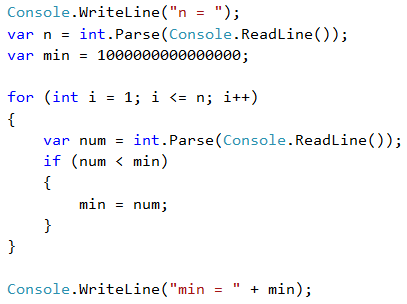
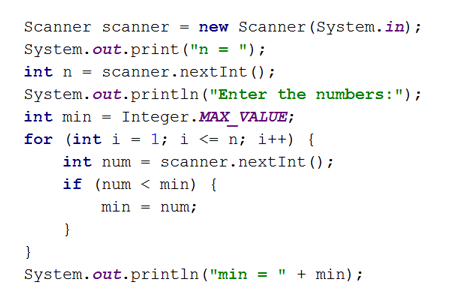
Update chapter 5

diff --git a/chapter-05-loops.md b/chapter-05-loops.md
@@ -6,8 +6,8 @@
 
 <div class="video-player">
   Гледайте видео-урок по тази глава тук: <a target="_blank"
-  href="https://www.youtube.com/watch?v=5oIIE7_0EoQ">
-  https://www.youtube.com/watch?v=5oIIE7_0EoQ</a>.
+  href="https://www.youtube.com/watch?v=MMLI-dGB3Ms">
+  https://www.youtube.com/watch?v=MMLI-dGB3Ms</a>.
 </div>
 <script src="/assets/js/video.js"></script>
 
@@ -19,11 +19,11 @@
 
 Цикълът започва с **оператора `for`** и преминава през всички стойности за дадена променлива в даден интервал, например всички числа от 1 до 10 включително, и за всяка стойност изпълнява поредица от команди.
 
-В декларацията на цикъла може да се зададе **начална стойност** и **крайна стойност**. **Тялото на цикъла** обикновено се огражда с къдрави скоби **`{ }`** и представлява блок с една или няколко команди. На фигурата по-долу е показана структурата на един **`for` цикъл**:
+В декларацията на цикъла се задава **начална стойност** и **крайна стойност**. **Тялото на цикъла** се огражда с къдрави скоби **`{ }`** и представлява блок с една или няколко команди. На фигурата по-долу е показана структурата на един **`for` цикъл**:
 
 ![](assets/chapter-5-images/00.For-loop-02.png)
 
-В повечето случаи един **`for` цикъл** се завърта от **`1`** до **`n`** пъти (например от 1 до 10). Целта на цикъла е да се премине последователно през числата 1, 2, 3, ..., n и за всяко от тях да се изпълни някакво действие. В примера по-горе променливата **`i`** приема стойности от 1 до 10 и в тялото на цикъла сe отпечатва текущата стойност. Цикълът се повтаря 10 пъти и всяко от тези повторения се нарича "**итерация**".
+В повечето случаи един **`for` цикъл** се завърта от **`1`** до **`n`** пъти (например от 1 до 10). Целта на цикъла е да се премине последователно през числата 1, 2, 3, ..., n и за всяко от тях да се изпълни някакво действие. В примера по-горе променливата **`i`** приема стойности от 1 до 10 и в тялото на цикъла се отпечатва текущата стойност. Цикълът се повтаря 10 пъти и всяко от тези повторения се нарича "**итерация**".
 
 ### Пример: числа от 1 до 100
 
@@ -35,7 +35,7 @@
 
 ![](assets/chapter-5-images/01.Numbers-1-to-100-01.png)
 
-**Стартираме** програмата с [**Ctrl+F5**] и я **тестваме**:
+**Стартираме** програмата с [**Shift+F10**] и я **тестваме**:
 
 ![](assets/chapter-5-images/01.Numbers-1-to-100-02.png)
 
@@ -45,13 +45,13 @@
 
 Трябва да получите **100 точки** (напълно коректно решение).
 
-## Code Snippet за for цикъл във Visual Studio
+## Code Snippet за for цикъл в IntelliJ IDEA
 
-Докато програмираме, постоянно се налага да пишем цикли, десетки пъти всеки ден. Затова в повечето среди за разработка (IDE) има **шаблони за код** (**code snippets**) за писане на цикли. Един такъв шаблон е **шаблонът за `for` цикъл във Visual Studio**. Напишете **`for`** в редактора за C# код във Visual Studio и **натиснете два пъти** [**Tab**]. Visual Studio ще разгъне за вас шаблон и ще напише цялостен **`for` цикъл**:
+Докато програмираме, постоянно се налага да пишем цикли, десетки пъти всеки ден. Затова в повечето среди за разработка (IDE) има **шаблони за код** (**code snippets**) за писане на цикли. Един такъв шаблон е **шаблонът за `for` цикъл в IntelliJ IDEA**. Напишете **`fori`** в редактора за Java код в IntelliJ IDEA и **натиснете** [**Enter**]. IntelliJ IDEA ще разгъне за вас шаблон и ще напише цялостен **`for` цикъл**, единствено трябва да добавите крайната стойност:
 
 ![](assets/chapter-5-images/00.For-loop-code-snippet.png)
 
-**Опитайте сами**, за да усвоите умението да ползвате шаблона за код за **`for` цикъл** във Visual Studio.
+**Опитайте сами**, за да усвоите умението да ползвате шаблона за код за **`for` цикъл** в IntelliJ IDEA.
 
 ### Пример: числа до 1000, завършващи на 7
 
@@ -131,7 +131,7 @@
 
 #### Насоки и подсказки
 
-Първо въвеждаме едно число **`n`** (броят числа, които предстои да бъдат въведени). Задаваме на текущия максимум **`max`** първоначална неутрална стойност, например **-10000000000000** (или **`int.MinValue`**). С помощта на **`for` цикъл**, чрез който итерираме **n-1 пъти**, прочитаме по едно цяло число **`num`**. Ако прочетеното число **`num`** е по-голямо от текущия максимум **`max`**, присвояваме стойността на **`num`** в променливата **`max`**. Накрая, в **`max`** трябва да се е запазило най-голямото число. Отпечатваме го на конзолата.
+Първо въвеждаме едно число **`n`** (броят числа, които предстои да бъдат въведени). Задаваме на текущия максимум **`max`** първоначална неутрална стойност, например **-10000000000000** (или **`Integer.MIN_VALUE`**). С помощта на **`for` цикъл**, чрез който итерираме **n-1 пъти**, прочитаме по едно цяло число **`num`**. Ако прочетеното число **`num`** е по-голямо от текущия максимум **`max`**, присвояваме стойността на **`num`** в променливата **`max`**. Накрая, в **`max`** трябва да се е запазило най-голямото число. Отпечатваме го на конзолата.
 
 ![](assets/chapter-5-images/05.Max-number-01.png)
 
@@ -161,7 +161,6 @@
 
 Тествайте решението си тук: [https://judge.softuni.bg/Contests/Practice/Index/655#5](https://judge.softuni.bg/Contests/Practice/Index/655#5)
 
-
 ### Пример: лява и дясна сума
 
 Да се напише програма, която въвежда **2 \* n цели числа** и проверява дали **сумата на първите n числа** (лява сума) е равна на **сумата на вторите n числа** (дясна сума). При равенство се печата **"Yes" + сумата**, иначе се печата **"No" + разликата**. Разликата се изчислява като положително число (по абсолютна стойност). 
@@ -182,7 +181,6 @@
 
 Тествайте решението си тук: [https://judge.softuni.bg/Contests/Practice/Index/655#6](https://judge.softuni.bg/Contests/Practice/Index/655#6)
 
-
 ### Пример: четна / нечетна сума
 
 Да се напише програма, която въвежда **n цели числа** и проверява дали **сумата на числата на четни позиции** е равна на **сумата на числата на нечетни позиции**. При равенство печата **"Yes" + сумата**, иначе печата **"No" + разликата**. Разликата се изчислява по абсолютна стойност. 
@@ -200,6 +198,9 @@
 Въвеждаме числата едно по едно и изчисляваме двете **суми** (на числата на **четни** позиции и на числата на **нечетни** позиции). Както в предходната задача, изчисляваме абсолютната стойност на разликата и отпечатваме резултата (**"Yes" + сумата** при разлика 0 или **"No" + разликата** в противен случай).
 
 ![](assets/chapter-5-images/08.Odd-even-sum-01.png)
+
+**`+=`** - често използван комбиниран оператор за присвояване, добавя стойността на десния операнд към левия операнд и присвоява крайния резултат на левия операнд.
+**C += A** е еквивалентно на **C = C + A**.
 
 #### Тестване в Judge системата
 
@@ -222,7 +223,7 @@
 
 #### Насоки и подсказки
 
-Прочитаме входния текст **`s`**, зануляваме сумата и завъртаме цикъл от **0** до **`s.Length-1`** (дължината на текста -1). Проверяваме всяка буква **`s[i]`** дали е гласна и съответно добавяме към сумата стойността ѝ.
+Прочитаме входния текст **`s`**, зануляваме сумата и завъртаме цикъл от **0** до **`s.length() - 1`** (дължината на текста -1). Проверяваме всяка буква **`s.charAt(i)`** дали е гласна и съответно добавяме към сумата стойността ѝ.
 
 ![](assets/chapter-5-images/09.Vowels-sum-01.png)
 
@@ -244,15 +245,52 @@
 
 След като се запознахме с циклите, идва време **да затвърдим знанията си на практика**, а както знаете, това става с много писане на код. Да решим няколко задачи за упражнение.
 
-### Празно Visual Studio решение (Blank Solution)
+### Създаване на нов проект в IntelliJ IDEA
 
-Създаваме празно решение **(Blank Solution)** във Visual Studio, за да организираме по-добре задачите за упражнение. Целта на този **blank solution** e да съдържа **по един проект за всяка задача** от упражненията.
-  
-![](assets/chapter-5-images/00.Blank-visual-studio.png)
+Създаваме нов проект в IntelliJ IDEA, за да организираме по-добре решенията на задачите за упражнение, като за всяка задача трябва да създадем по един отделен клас.
 
-Задаваме **да се стартира по подразбиране текущият проект** (не първият в решението). Кликваме с десен бутон на мишката върху **Solution 'Loops'** -> [**Set StartUp Projects…**] -> [**Current selection**].
+Стартираме IntelliJ IDEA, избираме: **CREATE NEW PROJECT**.
 
-### Задача: елемент, равен на сумата на останалите
+![](assets/chapter-5-images/01_NewProject.png)
+
+след това в лявото поле избираме Java, ако не сме посочили **PROJECT SDK: ** избираме пътя до инсталираната Java **JDK** директор след което натискаме **NEXT**.
+
+![](assets/chapter-5-images/02_NewProject.png)
+
+На следващия прозорец отново избираме **NEXT**
+
+![](assets/chapter-5-images/03_NewProject.png)
+
+Наименуваме проекта (Project name:) **Loops** и избираме директория където да го запазим (Project locaition:).
+След което натискаме **FINISH**.
+
+![](assets/chapter-5-images/04_NewProject.png)
+ 
+На следващият прозорец избираме **ОК** за да създадем **Project locaition**, ако не сме създали предварително.
+
+![](assets/chapter-5-images/05_NewProject.png)
+
+Така създадохме нов проект. Ако в левият прозорец натиснем триъгълника пред **Loops**, ще се отвори и самата структура на проекта.
+
+![](assets/chapter-5-images/06_NewProject.png)
+
+За да създадем в нашият проект **пакет**, който да съдържа всички класове с решенията на задачите за упражнение, натискаме десен бутон на мишката върху **src**, избираме **New** -> **Package** и наименуваме пакета **tasks** (с малка първа буква).
+
+![](assets/chapter-5-images/07_NewProject.png)
+
+За да създадем нов клас за първото упражнение, натискаме десен бутон на мишката върху **tasks**, избираме **New** -> **Java Class** и наименуваме класа **Task_01** (с главна първа буква).
+
+![](assets/chapter-5-images/08_NewProject.png)
+
+![](assets/chapter-5-images/09_NewProject.png)
+
+След тези промени структурата на проекта ще изглежда по следния начин:
+ 
+![](assets/chapter-5-images/10_NewProject.png)
+ 
+ Като за всяко следващо упражнение създадем нов клас, по описания по-горе начин за създаване на клас. 
+ 
+### Задача: Елемент, равен на сумата на останалите
 
 Да се напише програма, която въвежда **n цели числа** и проверява дали сред тях съществува число, което е равно на сумата на всички останали. Ако има такъв елемент, се отпечатва **"Yes" + неговата стойност**, в противен случай - **"No" + разликата между най-големия елемент и сумата на останалите** (по абсолютна стойност). 
 
@@ -282,7 +320,7 @@
 
 | Вход | Изход | Вход | Изход |
 | --- | --- | --- | --- |
-| 6<br>2<br>3<br>5<br>4<br>2<br>1 | OddSum=9,<br>OddMin=2,<br>OddMax=5,<br>EvenSum=8,<br>EvenMin=1,<br>EvenMax=4 | 2<br>1.5<br>-2.5 | OddSum=1.5,<br>OddMin=1.5,<br>OddMax=1.5,<br>EvenSum=-2.5,<br>EvenMin=-2.5,<br>EvenMax=-2.5 |
+| 6<br>2<br>3<br>5<br>4<br>2<br>1 | OddSum=9,<br>OddMin=2,<br>OddMax=5,<br>EvenSum=8,<br>EvenMin=1,<br>EvenMax=4 | 2<br>1.5<br>-2.5 | OddSum=1.5,<br>OddMin=1.5,<br>OddMax=1.5,<br>EvenSum=-0.5,<br>EvenMin=-2.5,<br>EvenMax=2 |
 | 1<br>1 | OddSum=1,<br>OddMin=1,<br>OddMax=1,<br>EvenSum=0,<br>EvenMin=No,<br>EvenMax=No | 0 | OddSum=0,<br>OddMin=No,<br>OddMax=No,<br>EvenSum=0,<br>EvenMin=No,<br>EvenMax=No |
 | 5<br>3<br>-2<br>8<br>11<br>-3 | OddSum=8,<br>OddMin=-3,<br>OddMax=8,<br>EvenSum=9,<br>EvenMin=-2,<br>EvenMax=11 | 4<br>1.5<br>1.75<br>1.5<br>1.75 | OddSum=3,<br>OddMin=1.5,<br>OddMax=1.5,<br>EvenSum=3.5,<br>EvenMin=1.75,<br>EvenMax=1.75 |
 | 1<br>-5 | OddSum=-5,<br>OddMin=-5,<br>OddMax=-5,<br>EvenSum=0,<br>EvenMin=No,<br>EvenMax=No | 3<br>-1<br>-2<br>-3 | OddSum=-4,<br>OddMin=-3,<br>OddMax=-1,<br>EvenSum=-2,<br>EvenMin=-2,<br>EvenMax=-2 |
@@ -296,7 +334,6 @@
 #### Тестване в Judge системата
 
 Тествайте решението си тук: [https://judge.softuni.bg/Contests/Practice/Index/655#10](https://judge.softuni.bg/Contests/Practice/Index/655#10)
-
 
 ### Задача: еднакви двойки
 
@@ -321,12 +358,14 @@
 
 Тествайте решението си тук: [https://judge.softuni.bg/Contests/Practice/Index/655#11](https://judge.softuni.bg/Contests/Practice/Index/655#11)
 
-
 ## Упражнения: графични и уеб приложения
 
 В настоящата глава се запознахме с **циклите** като конструкция в програмирането, която ни позволява да повтаряме многократно дадено действие или група от действия. Сега нека си поиграем с тях. За целта ще начертаем няколко фигурки, които се състоят от голям брой повтарящи се графични елементи, но този път не на конзолата, а в графична среда, използвайки "**графика с костенурка**". Ще е интересно. И никак не е сложно. Опитайте!
 
 ### Задача: чертане с костенурка – графично GUI приложение
+
+//TODO: To Update or to Delete this part
+// Има промени направени с Replace
 
 Целта на следващото упражнение е да си поиграем с една **библиотека за рисуване**, известна като **“графика с костенурка” (turtle graphics)**. Ще изградим графично приложение, в което ще **рисуваме различни фигури**, придвижвайки нашата **“костенурка”** по екрана чрез операции от типа “отиди напред 100 позиции”, “завърти се надясно на 30 градуса”, “отиди напред още 50 позиции”. Приложението ще изглежда приблизително така:
 
@@ -338,21 +377,21 @@
 * статия за “turtle graphics” в Wikipedia – [https://en.wikipedia.org/wiki/Turtle_graphics](https://en.wikipedia.org/wiki/Turtle_graphics)
 * интерактивен онлайн инструмент за чертане с костенурка – [https://blockly-games.appspot.com/turtle](https://blockly-games.appspot.com/turtle)
 
-Започваме, като създаваме нов **C# Windows Forms проект**:
+Започваме, като създаваме нов **Java Windows Forms проект**:
 
 ![](assets/chapter-5-images/13.Turtle-graphics-02.png)
 
-Инсталираме **NuGet** пакета **"Nakov.TurtleGraphics"** към нашия нов Windows Forms проект. От Visual Studio може да се добавят **външни библиотеки** (пакети) към съществуващ C# проект. Те добавят допълнителна функционалност към нашите приложения. Официалното хранилище (repository) за C# библиотеки се поддържа от Microsoft и се нарича **NuGet** ([http://www.nuget.org/](http://www.nuget.org/)).
+Инсталираме **NuGet** пакета **"Nakov.TurtleGraphics"** към нашия нов Windows Forms проект. От IntelliJ IDEA може да се добавят **външни библиотеки** (пакети) към съществуващ Java проект. Те добавят допълнителна функционалност към нашите приложения. Официалното хранилище (repository) за Java библиотеки се поддържа от Microsoft и се нарича **NuGet** ([http://www.nuget.org/](http://www.nuget.org/)).
 
 Кликаме с десен бутон на мишката върху проекта в **Solution Explorer** и избираме [**Manage NuGet Packages…**]:
  
 ![](assets/chapter-5-images/13.Turtle-graphics-03.png)
 
-Ще се отвори прозорец за търсене и инсталиране на **NuGet** пакети. Нека потърсим пакети по ключова дума **`nakov`**. Ще излязат няколко пакета. От тях избираме пакет **`Nakov.TurtleGraphics`**. Натискаме [**Install**], за да го инсталираме към нашия C# проект:
+Ще се отвори прозорец за търсене и инсталиране на **NuGet** пакети. Нека потърсим пакети по ключова дума **`nakov`**. Ще излязат няколко пакета. От тях избираме пакет **`Nakov.TurtleGraphics`**. Натискаме [**Install**], за да го инсталираме към нашия Java проект:
  
 ![](assets/chapter-5-images/13.Turtle-graphics-04.png)
 
-Към нашия C# проект вече е включена външната библиотека **`Nakov.TurtleGraphics`**. Тя дефинира клас **`Turtle`**, който представлява **костенурка за рисуване**. За да го използваме, трябва да добавим в C# кода за нашата форма (**`Form1.cs`**). Добавяме следния код, най-отгоре в началото на файла:
+Към нашия Java проект вече е включена външната библиотека **`Nakov.TurtleGraphics`**. Тя дефинира клас **`Turtle`**, който представлява **костенурка за рисуване**. За да го използваме, трябва да добавим в Java кода за нашата форма (**`Form1.cs`**). Добавяме следния код, най-отгоре в началото на файла:
   
 ![](assets/chapter-5-images/13.Turtle-graphics-05.png)
 
